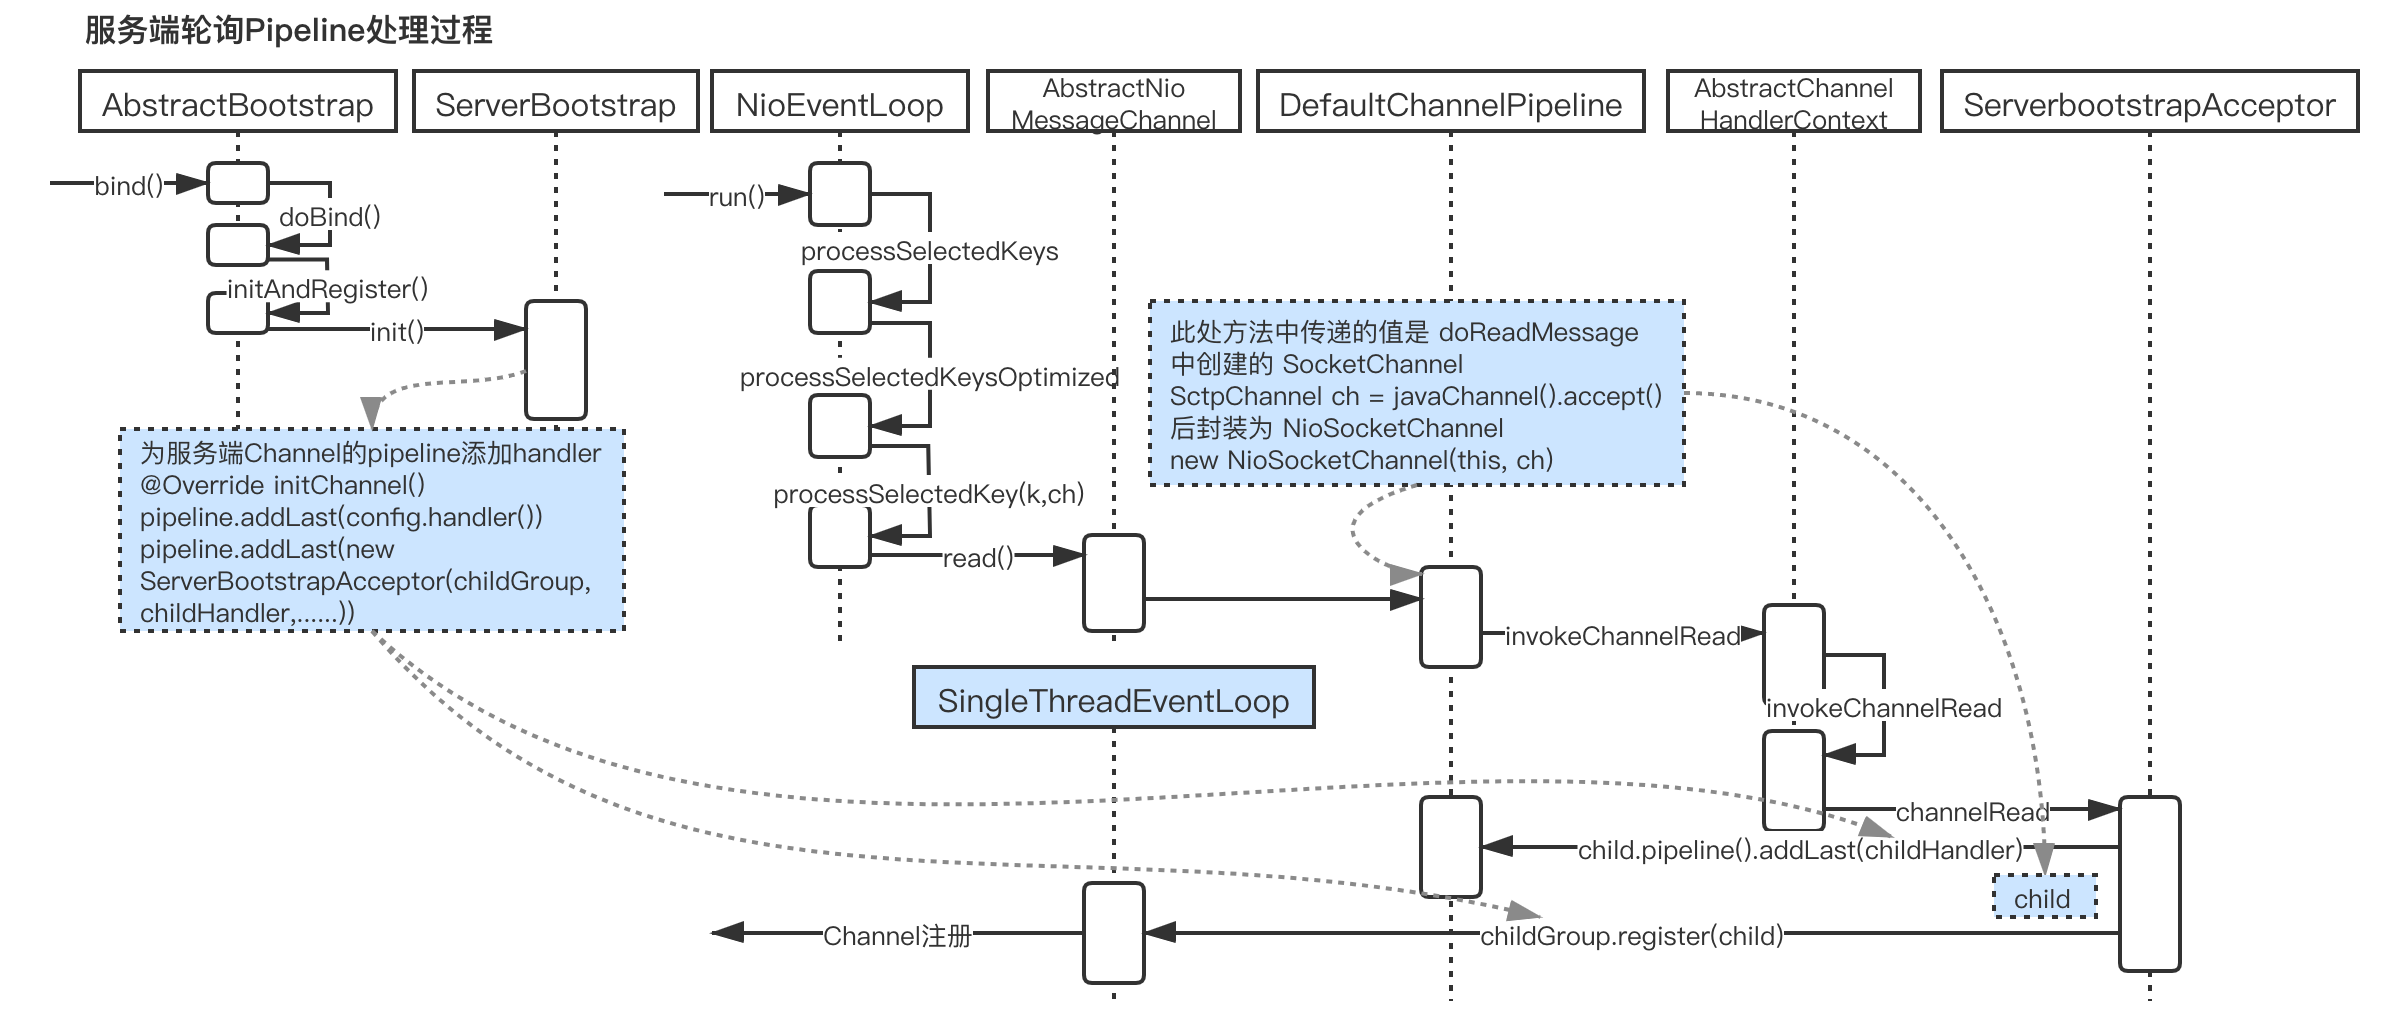
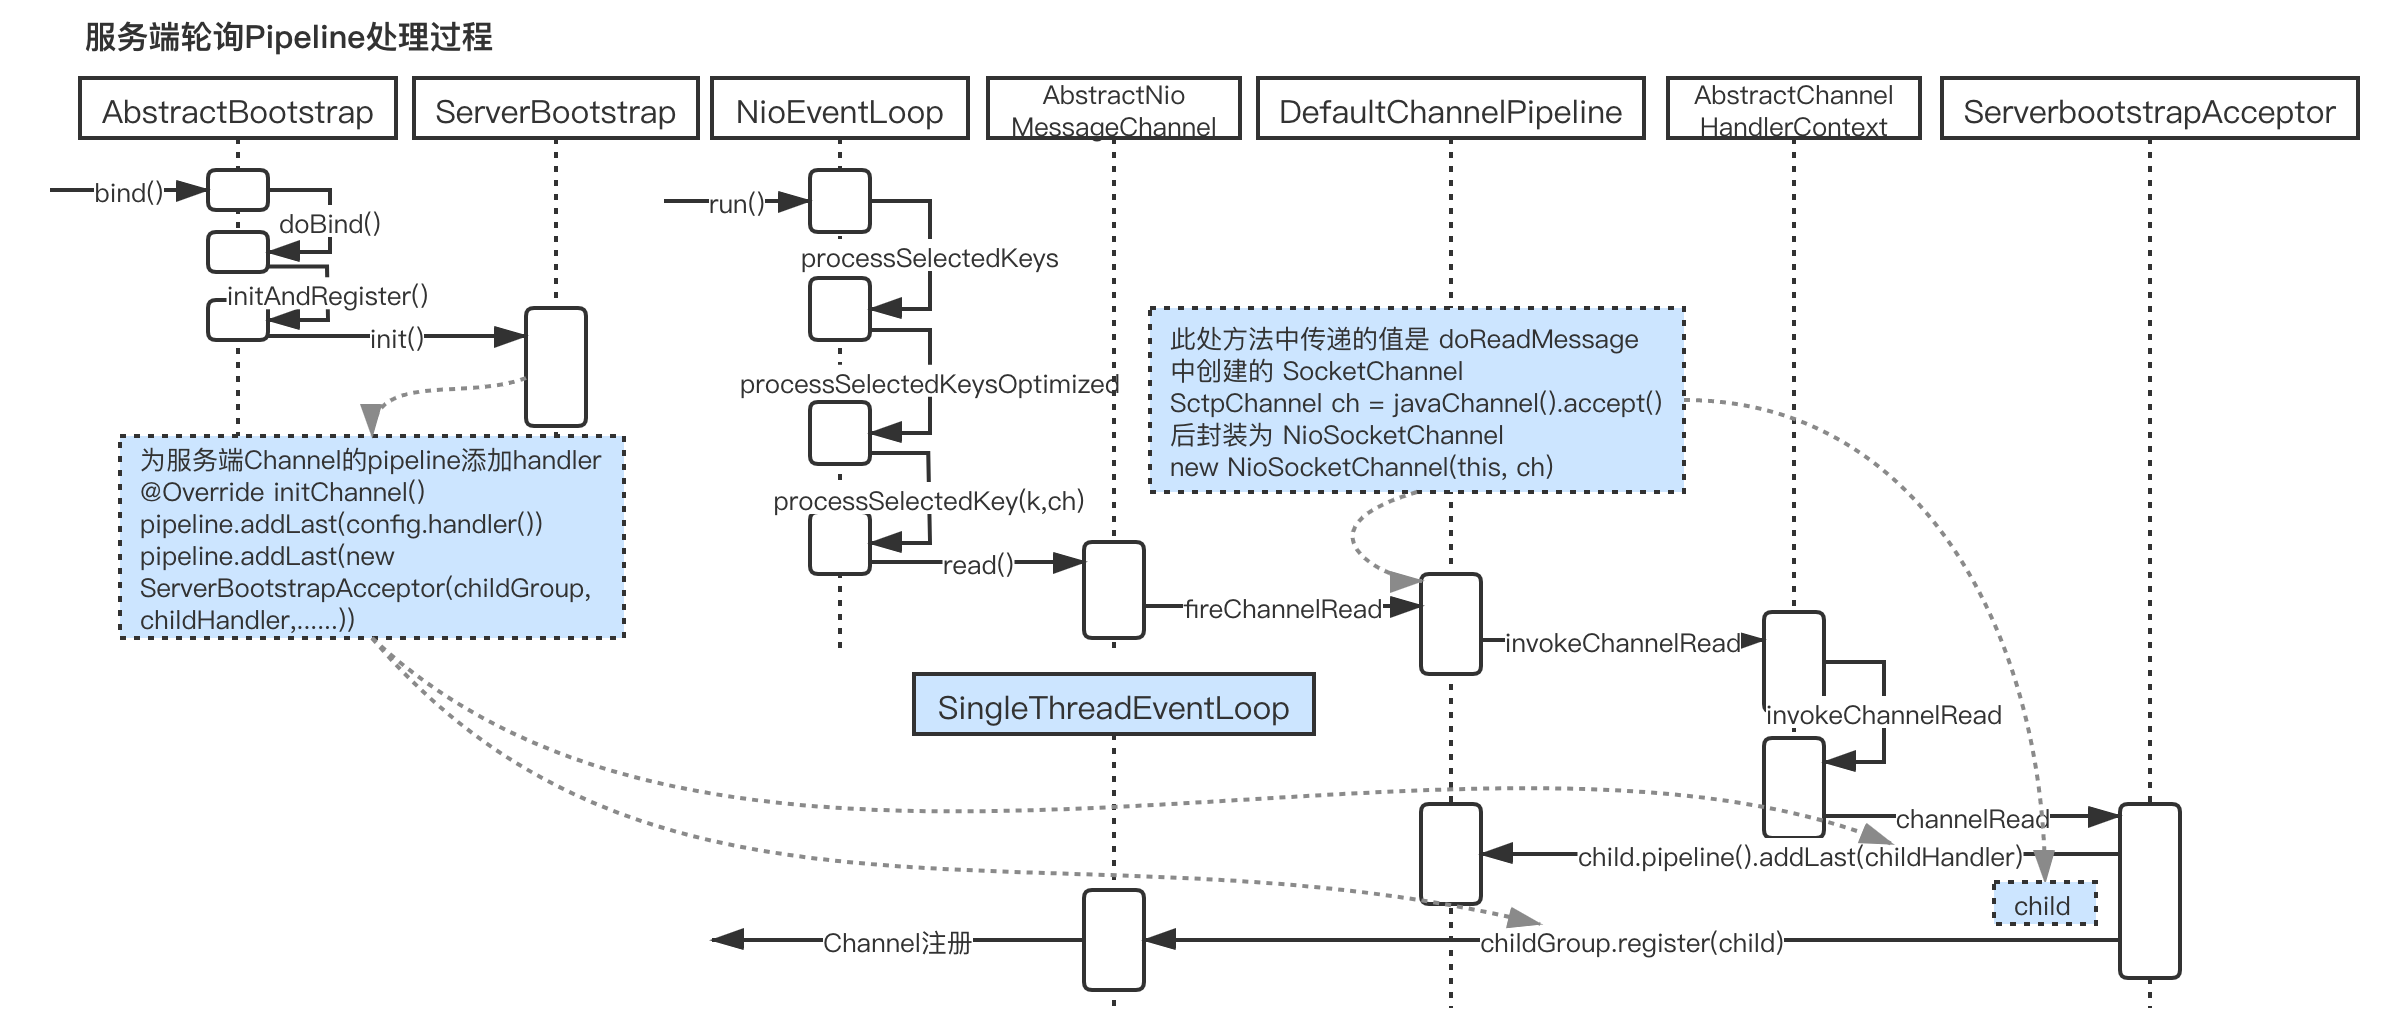
no message

diff --git a/分布式/Netty/深入分析 Netty 源码(1).md b/分布式/Netty/深入分析 Netty 源码(1).md
@@ -547,6 +547,7 @@ public abstract class ChannelInitializer<C extends Channel> extends ChannelInbou
     public final void channelRegistered(ChannelHandlerContext ctx) throws Exception {
         // 调用 initChannel(ChannelHandlerContext ctx)
         if (initChannel(ctx)) {
+            // 调用下一个 inboundhandler 的 channelRegister 方法
             ctx.pipeline().fireChannelRegistered();
         } else {
             // Called initChannel(...) before which is the expected behavior, so just forward the event.
@@ -859,7 +860,8 @@ void init(Channel channel) throws Exception {
     final Entry<ChannelOption<?>, Object>[] currentChildOptions;
     final Entry<AttributeKey<?>, Object>[] currentChildAttrs;
     ...
-    // 在服务端channel注册selector时，执行 p.addLast(ChannelInitializer) 方法体，将服务端自身handler和ServerBootstrapAcceptor 加入到 pipeline
+    // 在服务端channel注册selector时，执行 p.addLast(ChannelInitializer) 方法体，将服务端自身handler和ServerBootstrapAcceptor 加入到服务端 pipeline
+    // 在有新连接进入时，服务端EventLoop的轮询中，会调用自身pipeline，其中会执行 ServerBootstrapAcceptor 的代码，为 新连接进入的客户端Channel 添加childHandler的内容
     p.addLast(new ChannelInitializer<Channel>() {
         @Override
         public void initChannel(Channel ch) throws Exception {
@@ -943,6 +945,8 @@ public void execute(Runnable task) {
     if (task == null) {
         throw new NullPointerException("task");
     }
+    // 确定它是否是分配给当前 Channel 以及它的 EventLoop 的那个线程
+    // EventLoop 负责处理一个 Channel 的整个生命周期内的所有事件
     boolean inEventLoop = inEventLoop();
     if (inEventLoop) {
         addTask(task);
@@ -1103,6 +1107,7 @@ public void read() {
    int size = readBuf.size();
    for (int i = 0; i < size; i ++) {
       readPending = false;
+      // 调用下一个 inboundhandler 的 channelRead 方法
       pipeline.fireChannelRead(readBuf.get(i));
    }
    ...
@@ -1112,7 +1117,23 @@ public final ChannelPipeline fireChannelRead(Object msg) {
     AbstractChannelHandlerContext.invokeChannelRead(head, msg);
     return this;
 }
+// HeadContext.java
+public void channelRead(ChannelHandlerContext ctx, Object msg) throws Exception {
+		ctx.fireChannelRead(msg);
+}
 // AbstractChannelHandleContext.java
+public ChannelHandlerContext fireChannelRead(final Object msg) {
+    invokeChannelRead(findContextInbound(), msg);
+    return this;
+}
+private AbstractChannelHandlerContext findContextInbound() {
+    AbstractChannelHandlerContext ctx = this;
+    do {
+      	// 获取下一个 inbound = true
+        ctx = ctx.next;
+    } while (!ctx.inbound);
+    return ctx;
+}
 static void invokeChannelRead(final AbstractChannelHandlerContext next, Object msg) {
     final Object m = next.pipeline.touch(ObjectUtil.checkNotNull(msg, "msg"), next);
     EventExecutor executor = next.executor();
@@ -1130,7 +1151,8 @@ static void invokeChannelRead(final AbstractChannelHandlerContext next, Object m
 private void invokeChannelRead(Object msg) {
     if (invokeHandler()) {
         try {
-          	// 此次如果调用到上面提到的 ServerBootstrapAcceptor 的时候，他重写了 channelRead()方法,上面有分析
+          	// 此处如果调用到上面提到的 ServerBootstrapAcceptor 的时候，他重写了 channelRead()方法,上面有分析
+          	// 因为 ServerBootstrapAcceptor 是服务端的最后一个Handler，如果要设置服务端Handler并且要重写channelRead方法时，需要在最后指向下一个handler即调用 ctx.fireChannelRead(msg)，否则将无法执行childHandler的注册
             ((ChannelInboundHandler) handler()).channelRead(this, msg);
         } catch (Throwable t) {
             notifyHandlerException(t);

diff --git a/分布式/Netty/深入分析 Netty 源码(3).md b/分布式/Netty/深入分析 Netty 源码(3).md
@@ -99,6 +99,16 @@ void init(Channel channel) throws Exception {
 
 ![image-20210107182500985](深入分析 Netty 源码(3).assets/image-20210107182500985.png)
 
+> Netty 提供了一个特殊的 ChannelInboudHandlerAdapter 子类：
+>
+> public abstract class ChannelInitializer< C extends Channel > extends ChannelInboundHandlerAdapter
+>
+> 它定义了下面的方法：
+>
+> protected abstract void initChanel(C ch);
+>
+> 这个方法提供了一种将多个 ChannelHandler 添加到一个 ChannelPipeline 中的简便方法。你只需要简单地向 Bootstrap 或 ServerBootstrap 的实例提供 ChannelInitializer 实现即可，并且一旦 Channel 被注册到了它的 EventLoop 之后，就会调用你的 initChannel 版本。在该方法返回之后，ChannelInitializer 的实例将会从 ChannelPipeline 中移除它自己。(Bootstrap注册过程中)
+
 明明插入的是一个ChannelInitializer 实例，为什么在ChannelPipeline中的双向链表中的元素却是一个ChannelHandlerContext? 为了解答这个问题，我们继续在代码中寻找答案吧。刚提到，在 Bootstrap.init 中会调用 p.addLast()方法，将 ChannelInitializer 插入到链表尾端：
 
 ```java
@@ -452,6 +462,8 @@ public class MyOutboundHandler extends ChannelOutboundHandlerAdapter {
 上面例子，MyInboundHandler收到一个 channelActive 事件，它在处理后，希望事件继续传播下去，就需要接着调用ctx.fireChannelActive()。
 
 ## 2.1 Outbound 事件传播方式
+
+![image-20210107183105454](深入分析 Netty 源码(3).assets/pipeline-channelread.png)
 
 Outbound事件都是请求事件(request event)， 即请求某件事情的发生，然后通过Outbound事件进行通知. Outbound事件的传播方向是tail -&gt; customContext -&gt; head。
 
